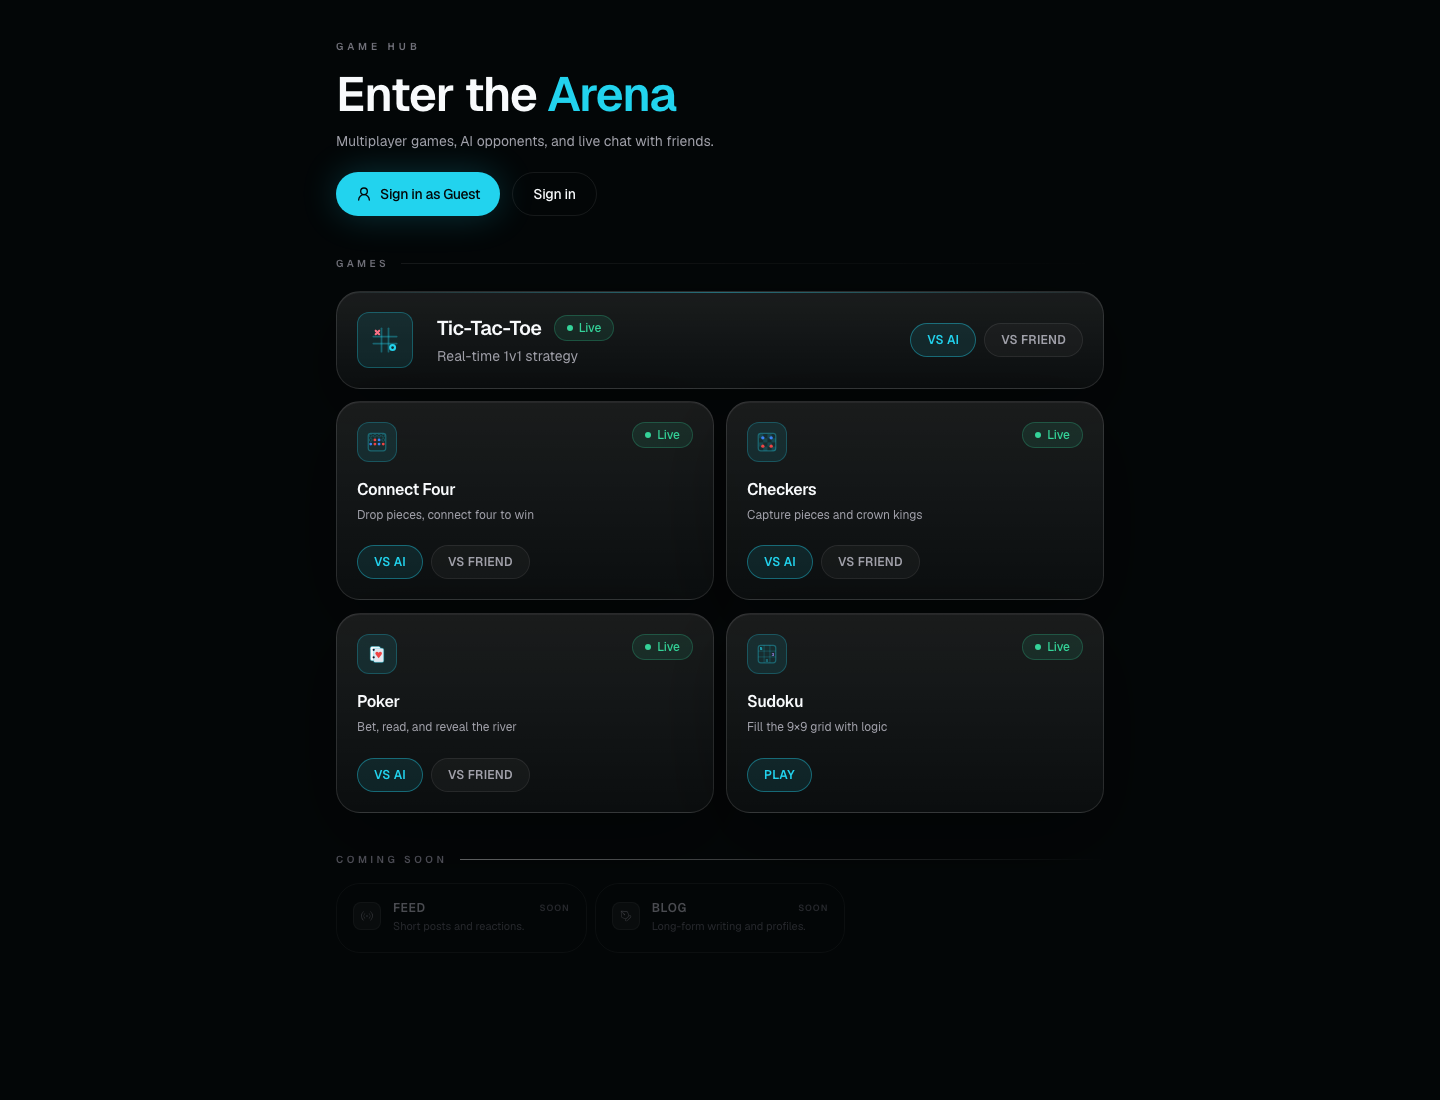
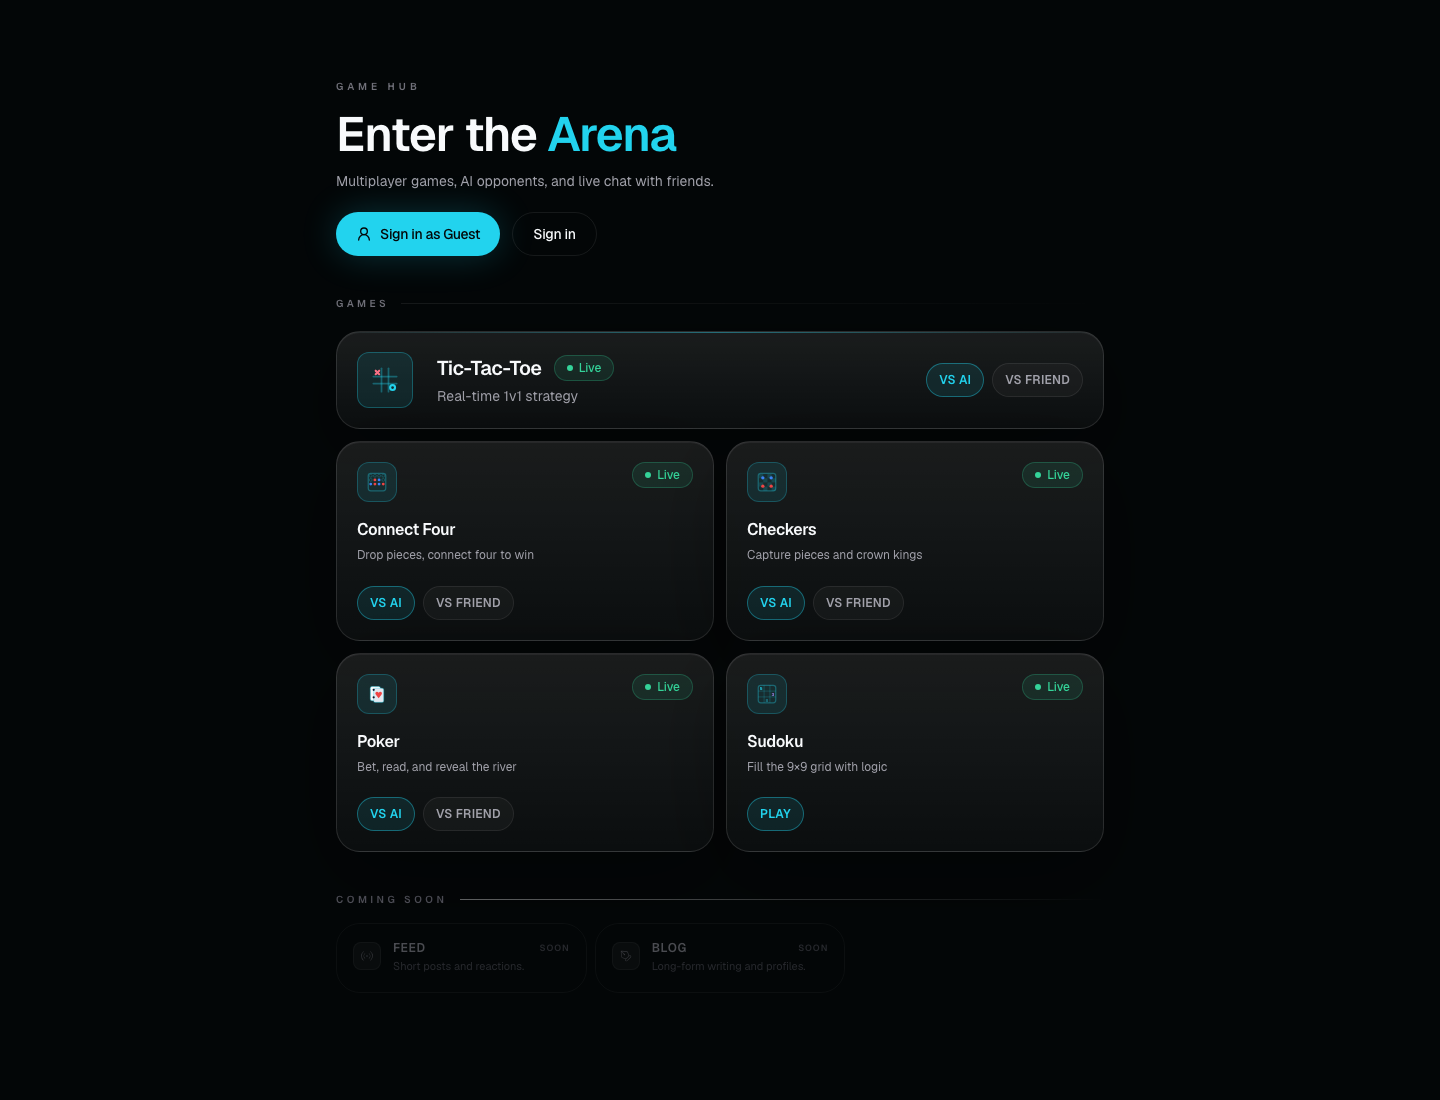
updated a lot lol

diff --git a/src/data/projects.ts b/src/data/projects.ts
@@ -65,31 +65,31 @@ export const projects: Project[] = [
     id: "tictactoe-ws",
     title: "OneVOne",
     description:
-      "A real-time social gaming platform with multiplayer board and card games, AI opponents, friends, lobbies, direct messages, group chat, notifications, and server-authoritative gameplay.",
+      "A real-time social gaming platform with poker tournaments, 2-9 player multiplayer poker tables, board games, AI opponents, friends, lobbies, direct messages, group chat, notifications, and server-authoritative gameplay.",
     highlights: [
-      "Multi-game platform: Tic-Tac-Toe, Connect Four, Checkers, Poker, and Sudoku",
-      "Server-authoritative game state with turn validation and real-time synchronization",
+      "Poker tournaments with registration, rosters, scheduled starts, table creation, and tournament-to-game handoff",
+      "Multiplayer Texas Hold'em tables with configurable blinds, starting chips, turn timers, and up to 9 seats",
       "Friends, presence, lobbies, invites, notifications, DMs, and group chat",
-      "Recruiter demo mode supports two-player testing across separate browser tabs",
+      "Shared platform for Tic-Tac-Toe, Connect Four, Checkers, Poker, Sudoku, AI modes, and realtime multiplayer",
     ],
     tryThis: [
       "Use the recruiter demo to sign in as Player 1 and Player 2 in separate tabs.",
-      "Create a multiplayer lobby, invite the second player, play a match, and test chat/notifications.",
+      "Create a poker lobby or tournament, invite players, then test table sync, chat, and notifications.",
     ],
     links: {
       liveDemo: LINKS.tttDemo,
       repo: LINKS.tttRepo,
     },
-    badges: ["React", "Django", "Channels", "Redis", "Group Chat"],
+    badges: ["Poker", "Tournaments", "WebSockets", "Django Channels", "Redis"],
     featured: true,
     screenshot: {
       src: "/screenshots/onevone-home.png",
       alt: "OneVOne game hub showing multiplayer games, AI opponents, and live chat",
-      caption: "OneVOne game hub: multiple live games sharing auth, lobby, chat, invite, and realtime infrastructure.",
+      caption: "OneVOne game hub: poker, tournaments, board games, chat, invites, and realtime multiplayer infrastructure.",
     },
     architecture: {
       architecture:
-        "Django/DRF owns authoritative state, Channels and Redis handle realtime coordination, and React contexts keep the UI rehydrated across routes.",
+        "Django/DRF owns game, tournament, registration, and table state; Channels and Redis handle realtime poker/table updates, lobby coordination, chat, presence, and notifications.",
     },
   },
 

diff --git a/public/Anthony-Narine-Resume.html b/public/Anthony-Narine-Resume.html
@@ -166,17 +166,17 @@
         </div>
 
         <div class="item">
-          <h3>OneVOne - Real-Time Social Gaming Platform</h3>
+          <h3>OneVOne - Real-Time Social Gaming and Poker Platform</h3>
           <p class="meta">
-            React, Django, DRF, Channels, Redis, WebSockets, JWT |
+            React, Django, DRF, Channels, Redis, WebSockets, JWT, Poker Tournaments |
             <a href="https://onevone.net">onevone.net</a> |
             <a href="https://github.com/anthonynarine/tic_tac_toe">GitHub</a>
           </p>
           <ul>
-            <li>Expanded a tic-tac-toe project into a multi-game platform with Tic-Tac-Toe, Connect Four, Checkers, Poker, and Sudoku.</li>
-            <li>Implemented server-authoritative game state, turn validation, lobbies, rematches, and real-time synchronization.</li>
+            <li>Expanded a tic-tac-toe project into a real-time game hub with board games, AI modes, multiplayer poker, and poker tournaments.</li>
+            <li>Built tournament registration, rosters, scheduled starts, table creation, and tournament-to-game handoff flows.</li>
+            <li>Implemented multiplayer Texas Hold'em tables with configurable blinds, starting chips, turn timers, and up to 9 seats.</li>
             <li>Built friends, presence, invites, notifications, direct messages, and group chat across REST and WebSocket flows.</li>
-            <li>Created recruiter/demo flows for testing multiplayer behavior across separate browser tabs.</li>
           </ul>
         </div>
 

diff --git a/src/components/Header.tsx b/src/components/Header.tsx
@@ -76,7 +76,7 @@ function WorkPreview() {
           {[
             ["EstateIQ", "Production SaaS", "Ledger-first financial workflows with Stripe + AI Copilot"],
             ["Gait", "Auth platform", "JWT lifecycle, protected APIs, reusable service boundary"],
-            ["OneVOne", "Realtime platform", "Games, group chat, presence, lobbies, notifications"],
+            ["OneVOne", "Realtime platform", "Poker tournaments, multiplayer tables, chat, presence"],
           ].map(([name, type, detail], index) => (
             <div
               key={name}
